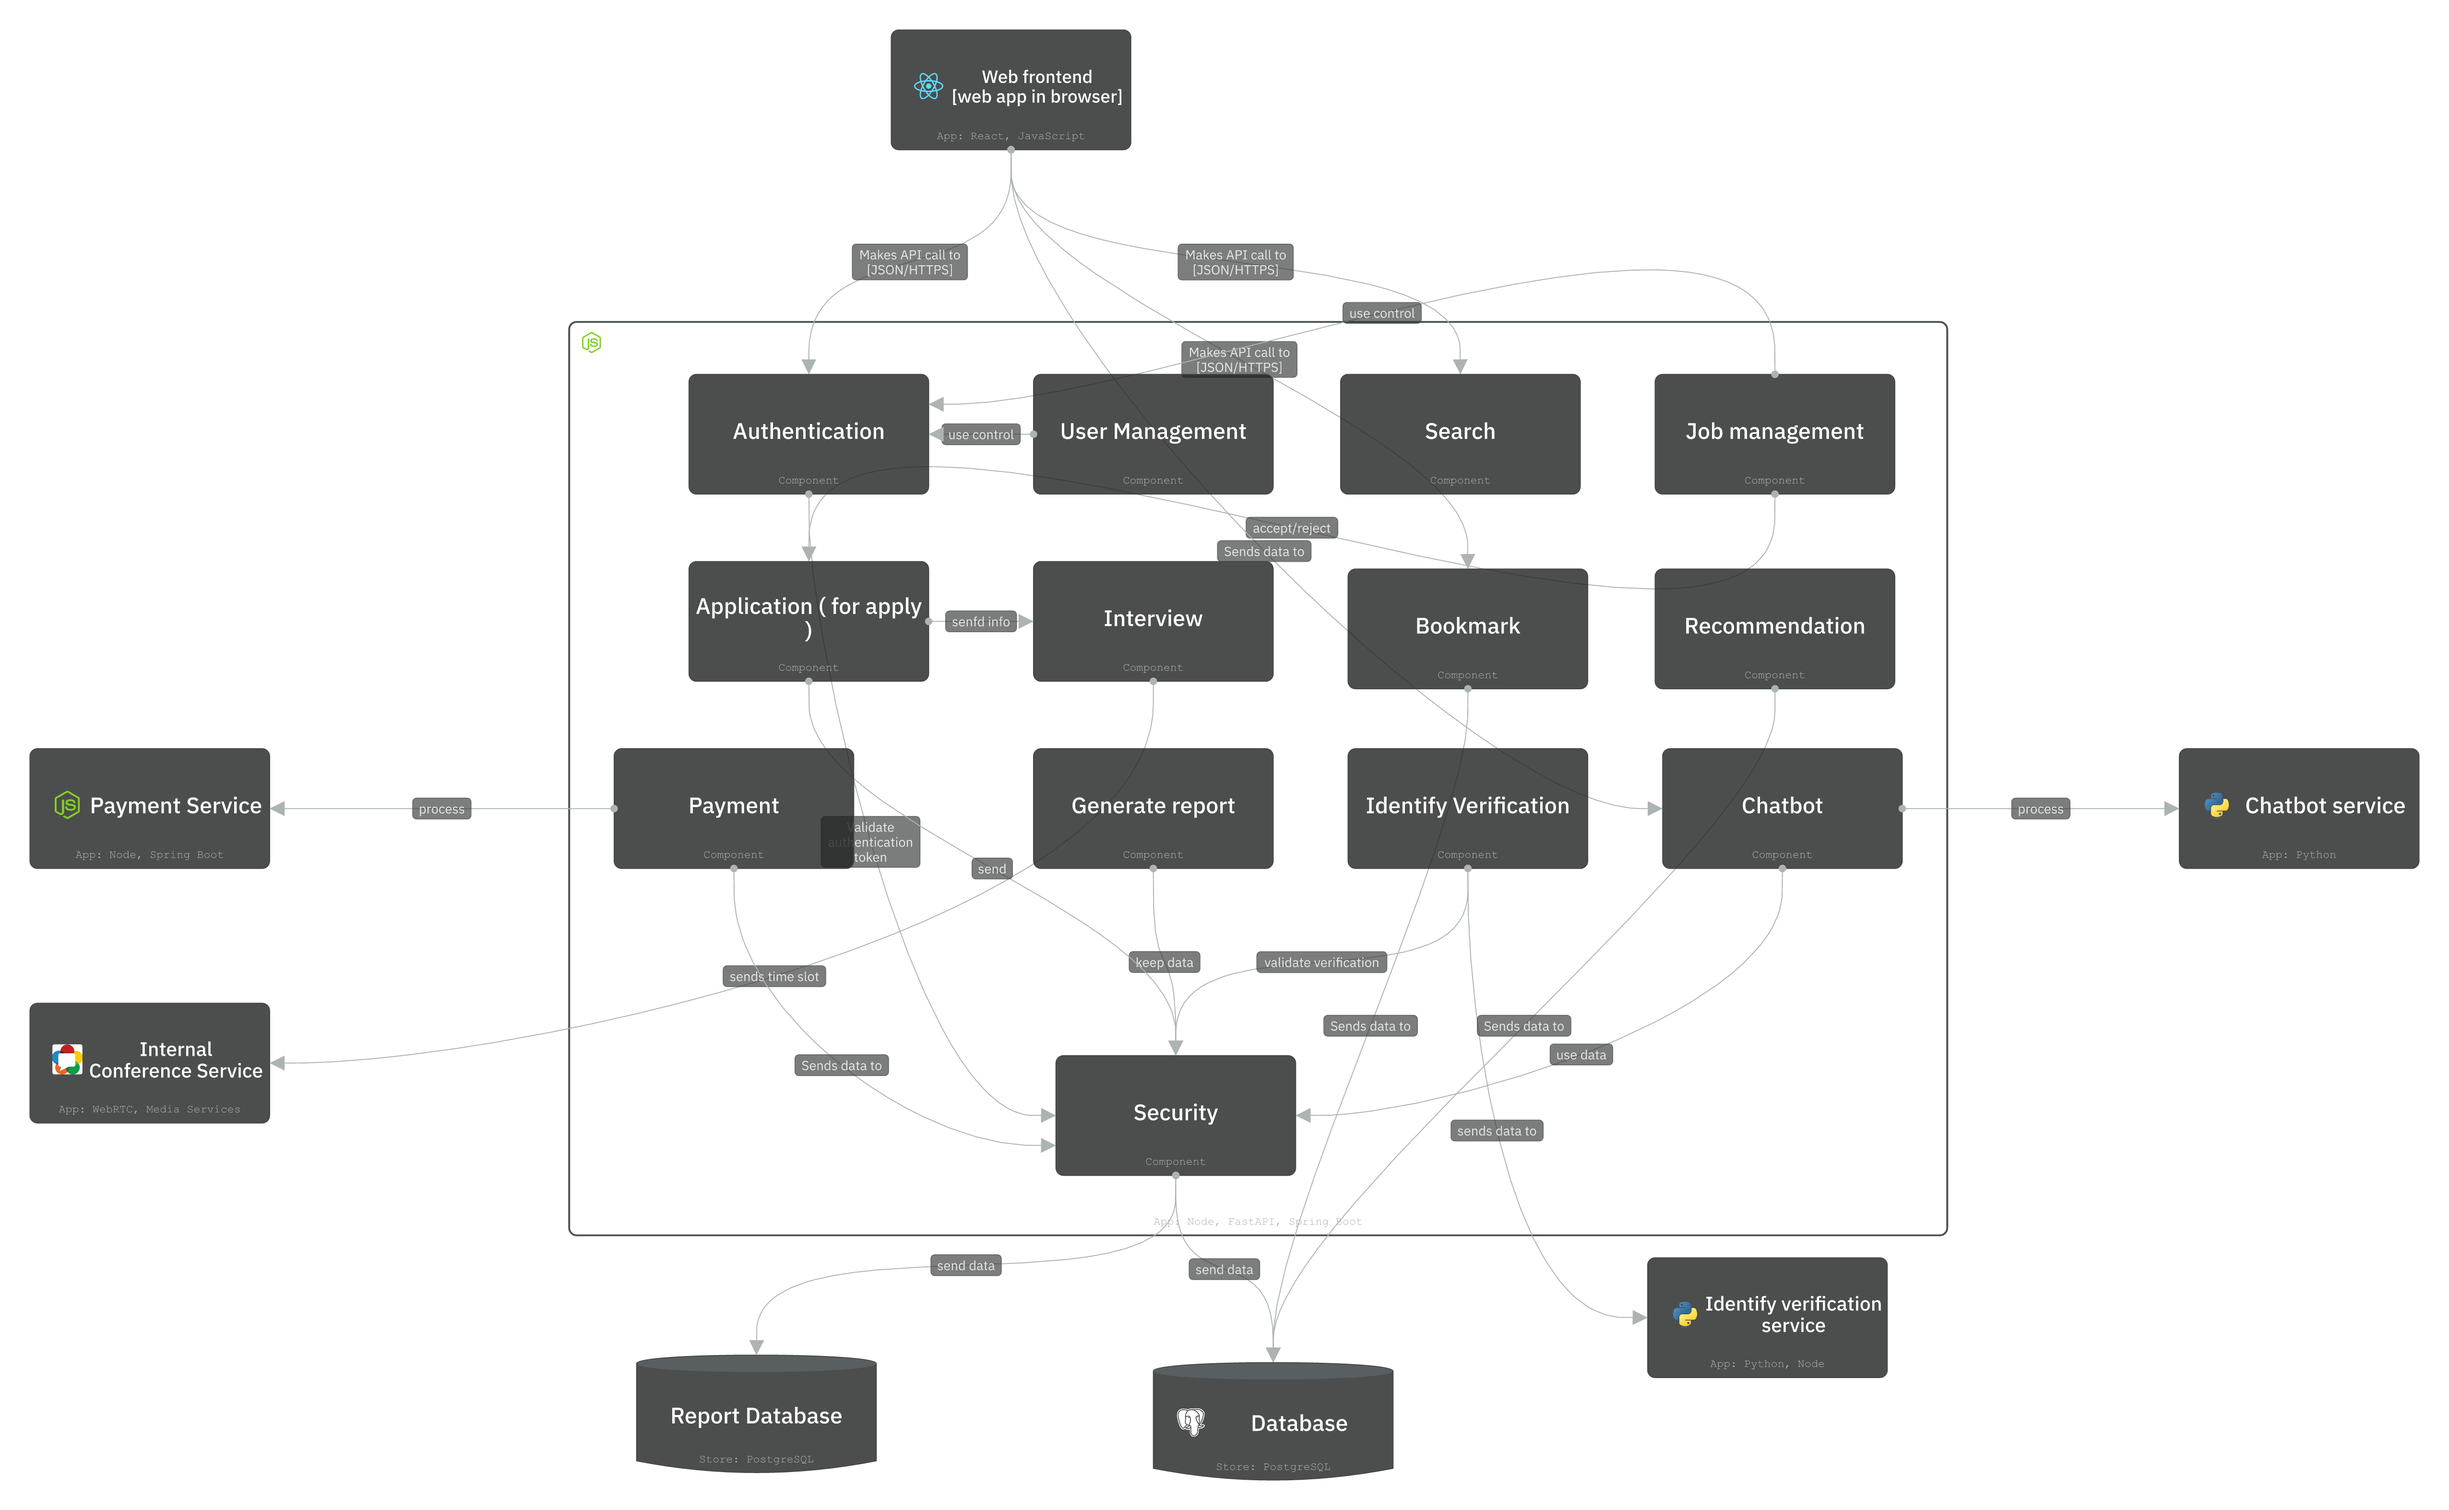
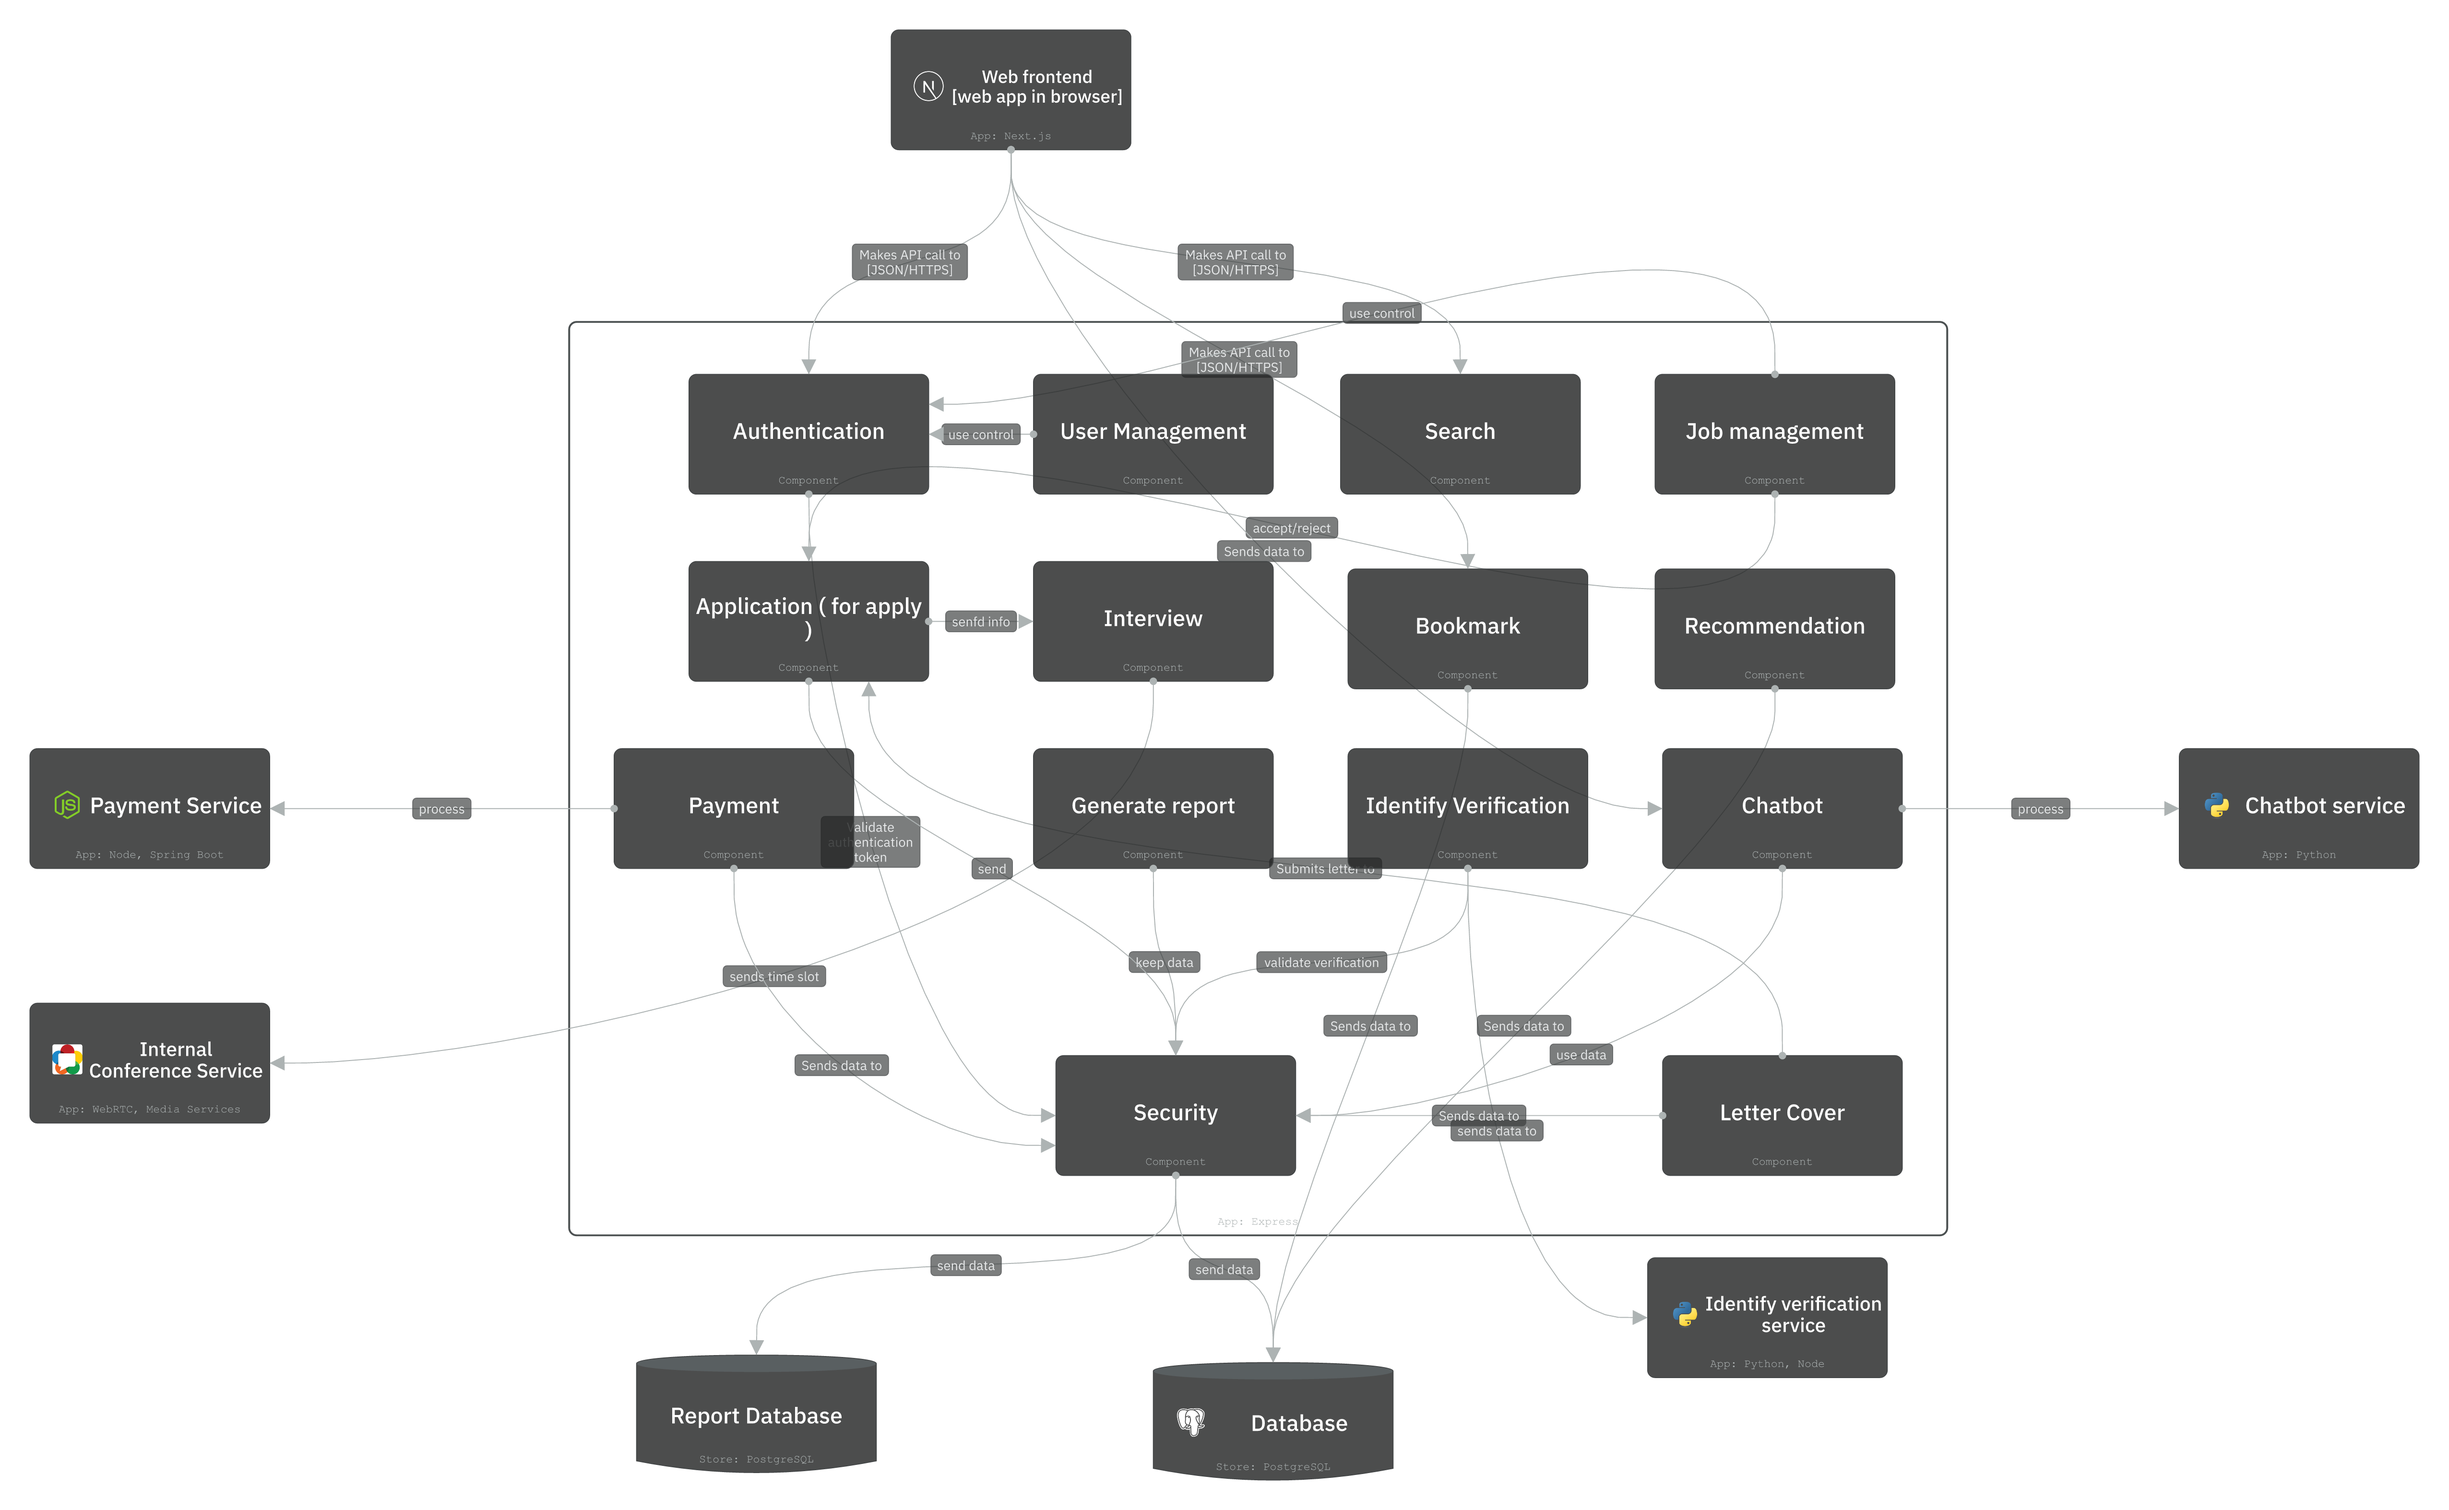
update component diagram

Changed region(s): [[0.6542, 0.6849, 0.7788, 0.7783], [0.5607, 0.716, 0.623, 0.7471], [0.4984, 0.5604, 0.5607, 0.5915]]

diff --git a/designs/Chongyai_D1_Design.md b/designs/Chongyai_D1_Design.md
@@ -45,12 +45,12 @@ Deconstructs the Backend structure to confirm a clear separation of concerns.
 
 ## 3.3.1 API Application
 
-![Component Diagram (Level 3)](images/C4_lv3_api.png)
+![alt text](images/C4_lv3_api.png)
 
 
 ## 3.3.2 Internal Conference Service
 
-![Component Diagram (Level 3)](images/C4_lv3_ICS.png)
+![alt text](images/C4_lv3_ics.png)
 
 ## 3.3.3 Identity Verify Service
 
